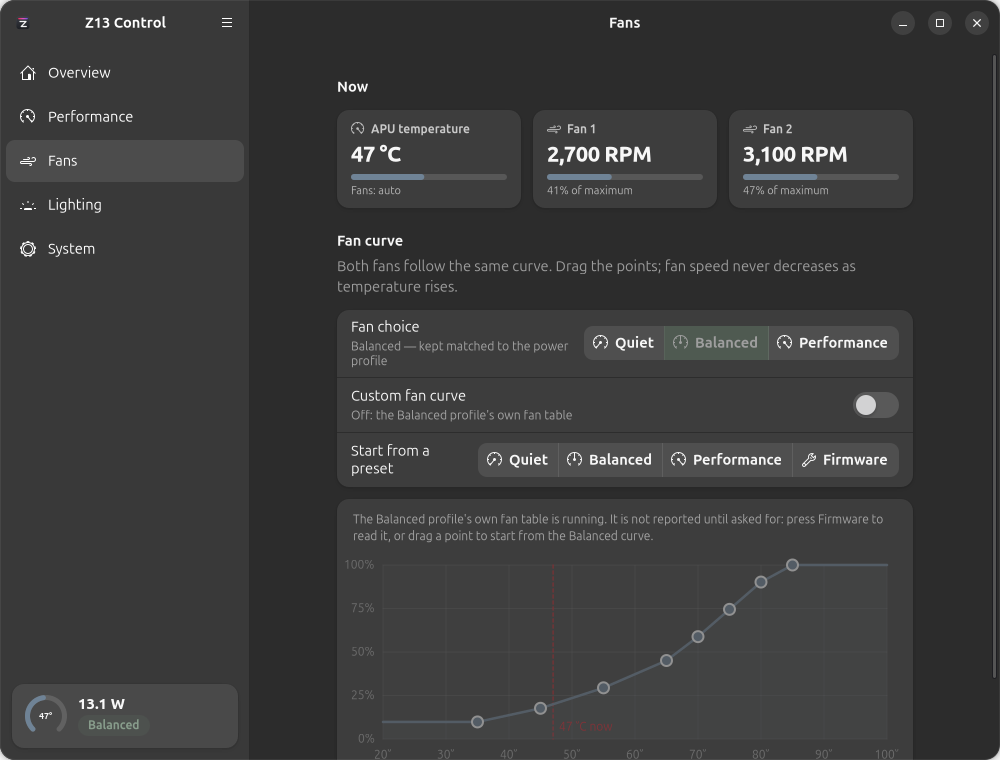
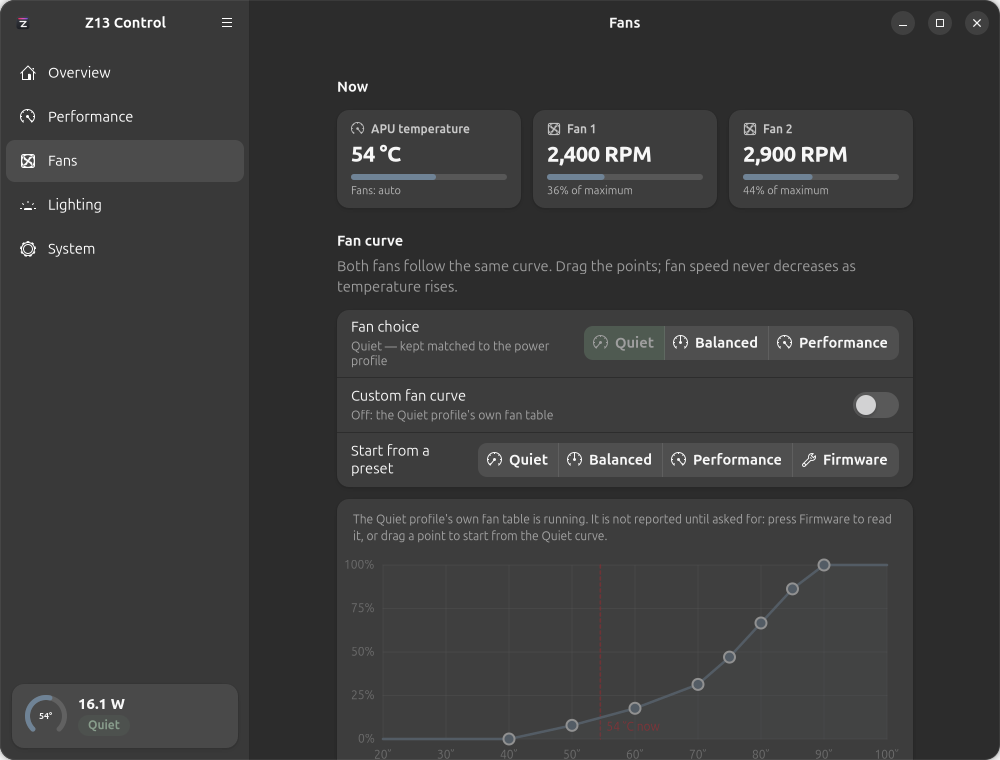
Update for 0.1.2

diff --git a/README.md b/README.md
@@ -85,8 +85,8 @@ Temperature in the top bar, and one click away, a dashboard: a ring gauge for
 the APU temperature, the active profile as a badge, and tiles with bars for CPU
 and GPU load, memory, GPU memory, fan speeds and battery that turn amber and
 red as things heat up. Below it, profile buttons, power limits and fan presets,
-lighting, battery limit, auto-switch, alerts and the panel refresh rate —
-without opening the app. It follows your accent colour and light or dark style.
+lighting, battery limit, the touchpad, sleep, auto-switch, alerts and the panel
+refresh rate — without opening the app. It follows your accent colour and light or dark style.
 
 ![Lighting in the top-bar menu](docs/screenshots/09-topbar-lighting.png)
 ![Fans in the top-bar menu](docs/screenshots/10-topbar-fans.png)
@@ -157,6 +157,16 @@ itself from whether the keyboard is attached, because the firmware's own switch
 is unreliable. The keyboard's touchpad can be switched off if its cursor jumps,
 and that choice survives reattaching it.
 
+**Touchpad and mouse.** Optionally, the keyboard's touchpad turns off while a
+Bluetooth or USB mouse is connected and comes back when the mouse disconnects
+or sleeps. The keyboard's own built-in pointer does not count as a mouse.
+
+**Sleep.** Keep the computer awake with one switch, or choose when the screen
+blanks and when the computer sleeps, plugged in and on battery. These are the
+desktop's own settings — GNOME Settings › Power, or Power Management on Plasma —
+so the app, the menu, the widget and the desktop always show the same thing.
+Switching *Keep awake* off puts back what it changed.
+
 ### Staying up to date
 
 The app checks for new releases once a day and can install them for you:
@@ -175,6 +185,8 @@ z13 fan set balanced            # fan preset or your own 8 points
 z13 light -m breathe -c cyan --color2 blue
 z13 battery 80                  # charge limit
 z13 tablet --switch on          # tablet mode when the keyboard is detached
+z13 tablet --mouse off          # touchpad off while a mouse is connected
+z13 sleep --keep-awake on       # or --blank 5m, --ac never, --battery 15m
 z13 theme --accent teal --scheme dark   # or --accent system
 z13 export my-profiles.json     # back up profiles and settings
 z13 history usage.csv           # recorded telemetry as CSV
@@ -206,6 +218,24 @@ after resume.
   power range this app uses
 
 ## What's new
+
+**0.1.2**
+
+* A second version with the system service written in Rust: the same app,
+  menu and widget, with a service using about 4 MB of memory instead of 34.
+  See *Two versions* above; updates stay on whichever you installed.
+* The keyboard touchpad can turn off while a mouse is connected.
+* Sleep settings and a *Keep awake* switch, in the app, the top-bar menu, the
+  Plasma widget and as `z13 sleep`.
+* The touchpad has its own section in the top-bar menu and the Plasma widget,
+  and fans have a proper computer-fan icon.
+* Importing profiles that raise sustained power above 75 W now asks for the
+  administrator password, as setting it directly always did.
+* The flicker fix can write the boot configuration it manages; before, the
+  service's sandbox stopped it.
+* Uninstalling from the app works for the Rust version, and *Also delete saved
+  profiles and settings* deletes them again.
+* On the Rust version, every control in the Plasma widget works.
 
 **0.1.1**
 
